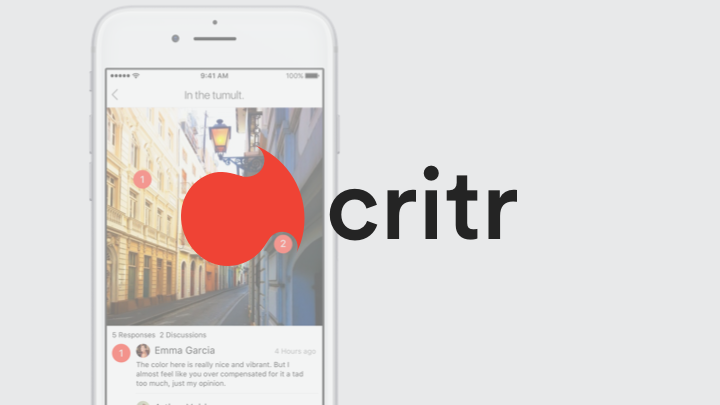
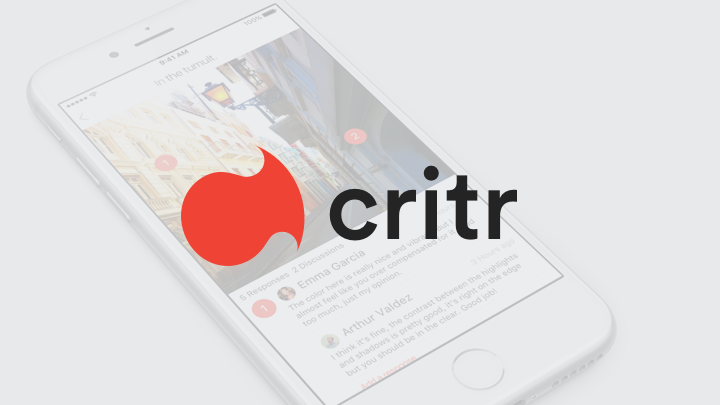
Update Thumbnails, Added Event App to MLG, Tweaked View Process Color

diff --git a/web/css/screen.css b/web/css/screen.css
@@ -194,16 +194,16 @@ div[role=main] blockquote {
   top: 460px;
   padding: 40px 80px 40px 40px;
   text-decoration: none;
-  color: #313439;
-  background-color: rgba(231, 232, 233, 0.3);
+  color: #F9F9F9;
+  background-color: rgba(49, 52, 57, 0.3);
   font-size: 1.6em;
   line-height: 1.3em; }
   .view-process-button:hover {
-    background-color: rgba(231, 232, 233, 0.6); }
+    background-color: rgba(49, 52, 57, 0.6); }
 
 .carousel-cell {
   width: 100%;
   margin-right: 10px;
-  background: #8C8;
+  background: #7D8086;
   border-radius: 5px;
   counter-increment: gallery-cell; }

diff --git a/assets/scss/screen.scss b/assets/scss/screen.scss
@@ -197,20 +197,20 @@ div[role=main] {
   top: 460px;
   padding: 40px 80px 40px 40px;
   text-decoration: none;
-  color: $dark;
-  background-color: rgba(231, 232, 233, 0.3);
+  color: $light;
+  background-color: rgba($dark, 0.3);
   font-size: 1.6em;
   line-height: 1.3em;
 
   &:hover {
-    background-color: rgba(231, 232, 233, 0.6);
+    background-color: rgba($dark, 0.6);
   }
 }
 
 .carousel-cell {
   width: 100%;
   margin-right: 10px;
-  background: #8C8;
+  background: $gray;
   border-radius: 5px;
   counter-increment: gallery-cell;
 }
